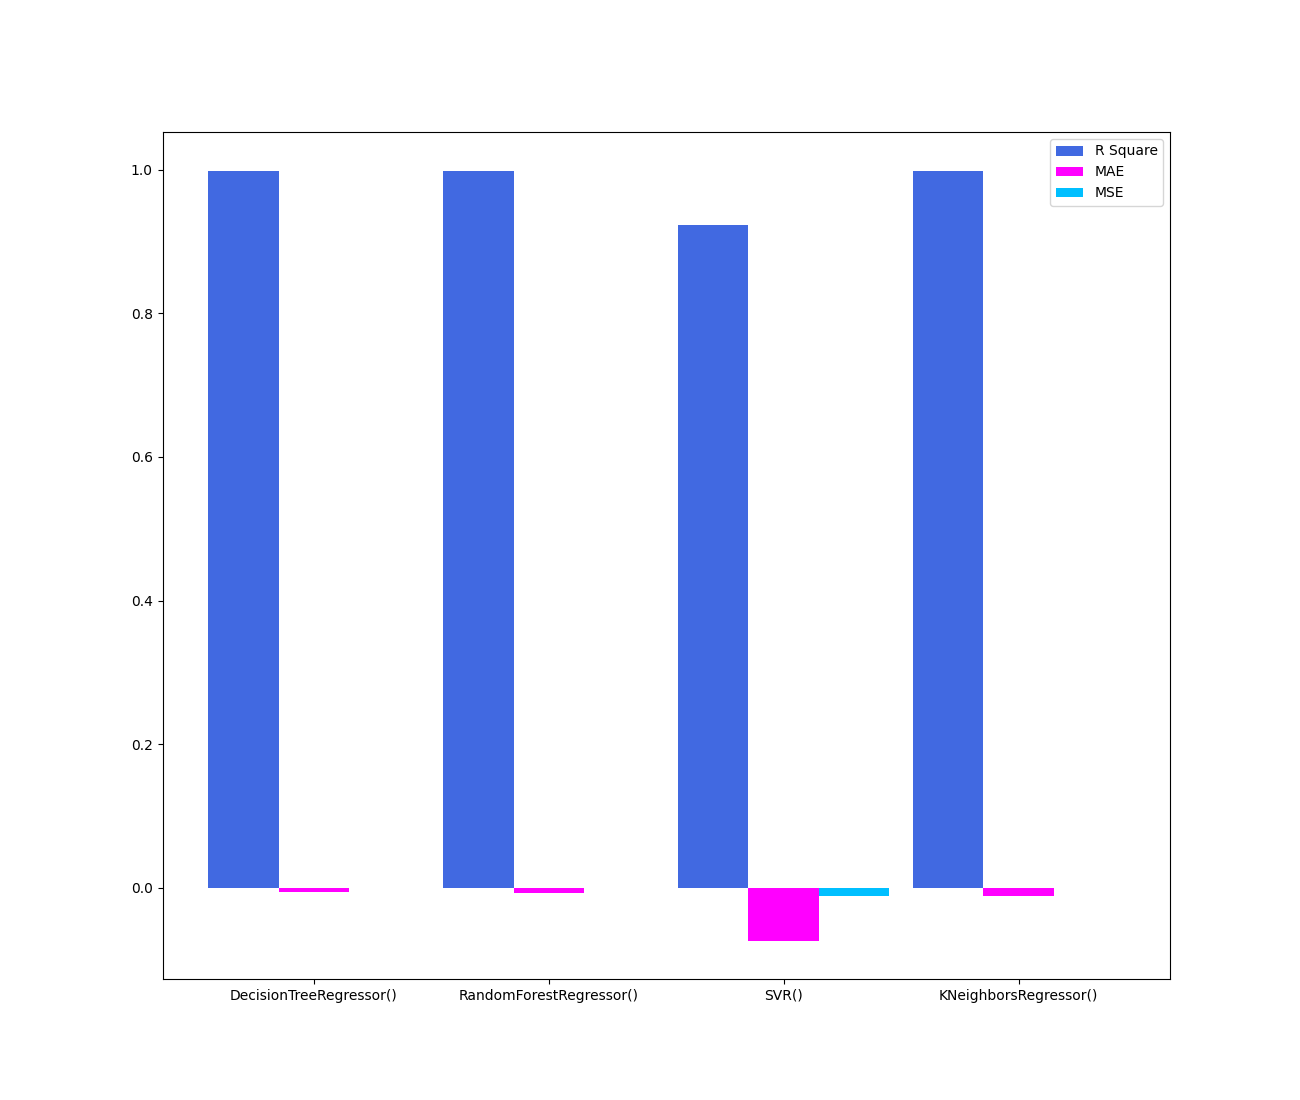
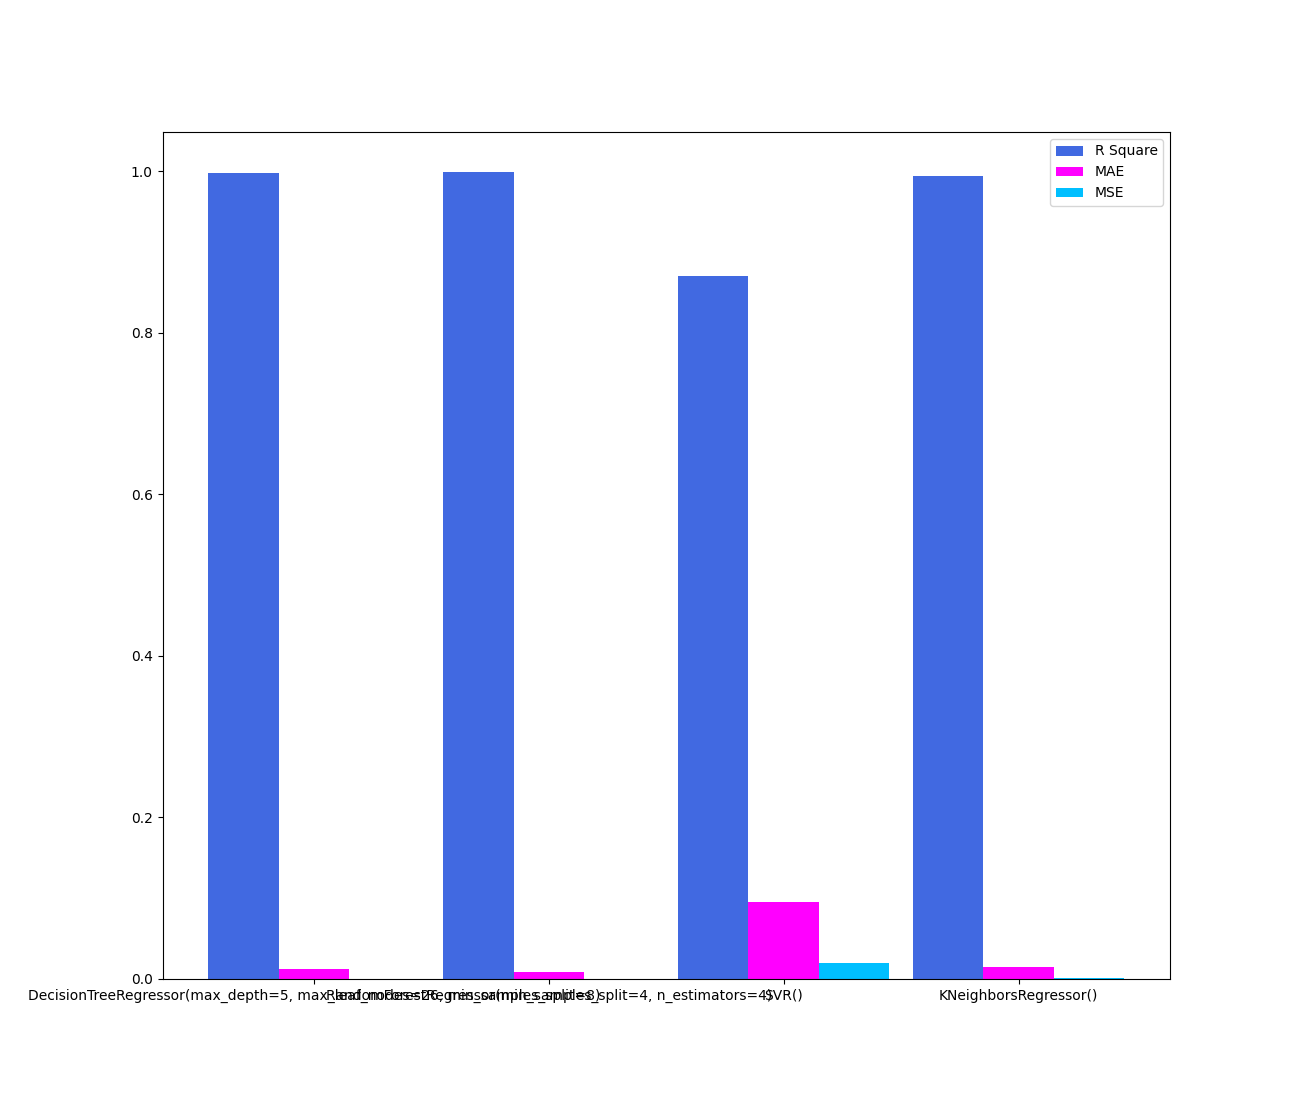
hp

diff --git a/psio/projekt/hyperparameters.py b/psio/projekt/hyperparameters.py
@@ -1,0 +1,76 @@
+from sklearn.ensemble import RandomForestRegressor
+from sklearn.tree import DecisionTreeRegressor
+from pprint import pprint
+from model_selection import X_train, Y_train
+from sklearn.model_selection import GridSearchCV
+from statistics import mean
+import numpy as np
+
+dt = DecisionTreeRegressor()
+rf = RandomForestRegressor()
+
+rf_params = [{
+    'n_estimators': [1, 2, 3, 4, 5, 6, 7, 8, 16, 32, 64, 100, 200],
+    'min_samples_split': [2, 3, 4, 5, 6, 7, 8, 9, 10],
+    'min_samples_leaf': [1, 2, 4],
+    }]
+
+dt_params = [{
+    'min_samples_split': [2, 3, 4, 5, 6, 7, 8, 9, 10, 11],
+    'max_depth': [1, 3, 5, 7, 9, 11, 13, 15, 17, 19, 21],
+    'max_leaf_nodes': [3, 5, 7, 9, 11, 13, 15, 17, 19, 21, 23, 25, 26],
+    }]
+
+n_estimators_train = []
+min_samples_split_train = []
+min_samples_leaf_train = []
+
+for i in range(0,5):
+    grid_search = GridSearchCV(estimator=rf, param_grid=rf_params, n_jobs = -1)
+    grid_search.fit(X_train,np.ravel(Y_train))
+    params = grid_search.best_params_
+    n_estimators_train.append(params['n_estimators'])
+    min_samples_split_train.append(params['min_samples_split'])
+    min_samples_leaf_train.append(params['min_samples_leaf'])
+
+rf_n_estimators = mean(n_estimators_train)
+rf_min_samples_split = mean(min_samples_split_train)
+rf_min_samples_leaf = mean(min_samples_leaf_train)
+
+pprint(n_estimators_train)
+pprint(min_samples_split_train)
+pprint(min_samples_leaf_train)
+
+print('n_estimators', rf_n_estimators)
+print('min_samples_split', rf_min_samples_split)
+print('min_samples_leaf', rf_min_samples_leaf)
+
+min_samples_split_train = []
+max_depth_train = []
+max_leaf_nodes_train = []
+
+for i in range(0,5):
+    grid_search = GridSearchCV(estimator=dt, param_grid=dt_params, n_jobs = -1)
+    grid_search.fit(X_train,np.ravel(Y_train))
+    params = grid_search.best_params_
+    min_samples_split_train.append(params['min_samples_split'])
+    max_leaf_nodes_train.append(params['max_leaf_nodes'])
+    max_depth_train.append(params['max_depth'])
+
+dt_min_samples_split = mean(min_samples_split_train)
+dt_max_leaf_nodes = mean(max_leaf_nodes_train)
+dt_max_depth = mean(max_depth_train)
+
+pprint(min_samples_split_train)
+pprint(max_leaf_nodes_train)
+pprint(max_depth_train)
+
+print('min_samples_split', dt_min_samples_split)
+print('max_leaf_nodes', dt_max_leaf_nodes)
+print('max_depth', dt_max_depth)
+
+
+# grid_search = GridSearchCV(estimator=MODELS[0], param_grid=dt_params, n_jobs = -1)
+# grid_search.fit(X_train,Y_train)
+# pprint(grid_search.best_params_)
+

diff --git a/psio/projekt/model_selection.py b/psio/projekt/model_selection.py
@@ -23,15 +23,11 @@ def evaluate_model(model):
 
     Y_pred = scaler_y.inverse_transform(Y_pred.reshape(-1, 1))
     data[model] = Y_pred.flatten()
-    # scores = cross_validate(model, X, Y, scoring=['r2', 'neg_mean_absolute_error', 'neg_mean_squared_error'])
-    #
-    # R2.append(scores['test_r2'].mean())
-    # MAE.append(scores['test_neg_mean_absolute_error'].mean())
-    # MSE.append(scores['test_neg_mean_squared_error'].mean())
+
 
 scaler_x = load('scaler_x.joblib')
 scaler_y = load('scaler_y.joblib')
-MODELS = [DecisionTreeRegressor(), RandomForestRegressor(), SVR(), KNeighborsRegressor()]
+MODELS = [DecisionTreeRegressor(max_depth=5,max_leaf_nodes=26,min_samples_split=8), RandomForestRegressor(min_samples_split=4,n_estimators=4), SVR(), KNeighborsRegressor()]
 R2 = []
 MAE = []
 MSE = []
@@ -44,26 +40,26 @@ data = {
     MODELS[3]: [],
 }
 
-
 for model in MODELS:
     evaluate_model(model)
 
-# X_axis = np.arange(len(MODELS))
-#
-# plt.figure(figsize=(13,11))
-# plt.bar(X_axis-0.3, R2, 0.3, label = 'R Square', color='royalblue')
-# plt.bar(X_axis, np.dot(MAE, -1), 0.3, label = 'MAE', color='magenta')
-# plt.bar(X_axis+0.3, np.dot(MSE, -1), 0.3, label = 'MSE', color='deepskyblue')
-# plt.xticks(X_axis, MODELS)
-# plt.legend()
-# plt.savefig('model_results.png')
+X_axis = np.arange(len(MODELS))
+
+plt.figure(figsize=(13,11))
+plt.bar(X_axis-0.3, R2, 0.3, label = 'R Square', color='royalblue')
+plt.bar(X_axis,MAE, 0.3, label = 'MAE', color='magenta')
+plt.bar(X_axis+0.3,MSE, 0.3, label = 'MSE', color='deepskyblue')
+plt.xticks(X_axis, MODELS)
+plt.legend()
+plt.savefig('model_results.png')
 
 
 
-pprint(data)
+#pprint(data)
+
 
 df = pd.DataFrame(data)
-
-print(df)
+df.to_excel('models_results.xlsx',index=False)
+print(df.columns)
 # pd.set_option('display.max_columns', 5)
 
